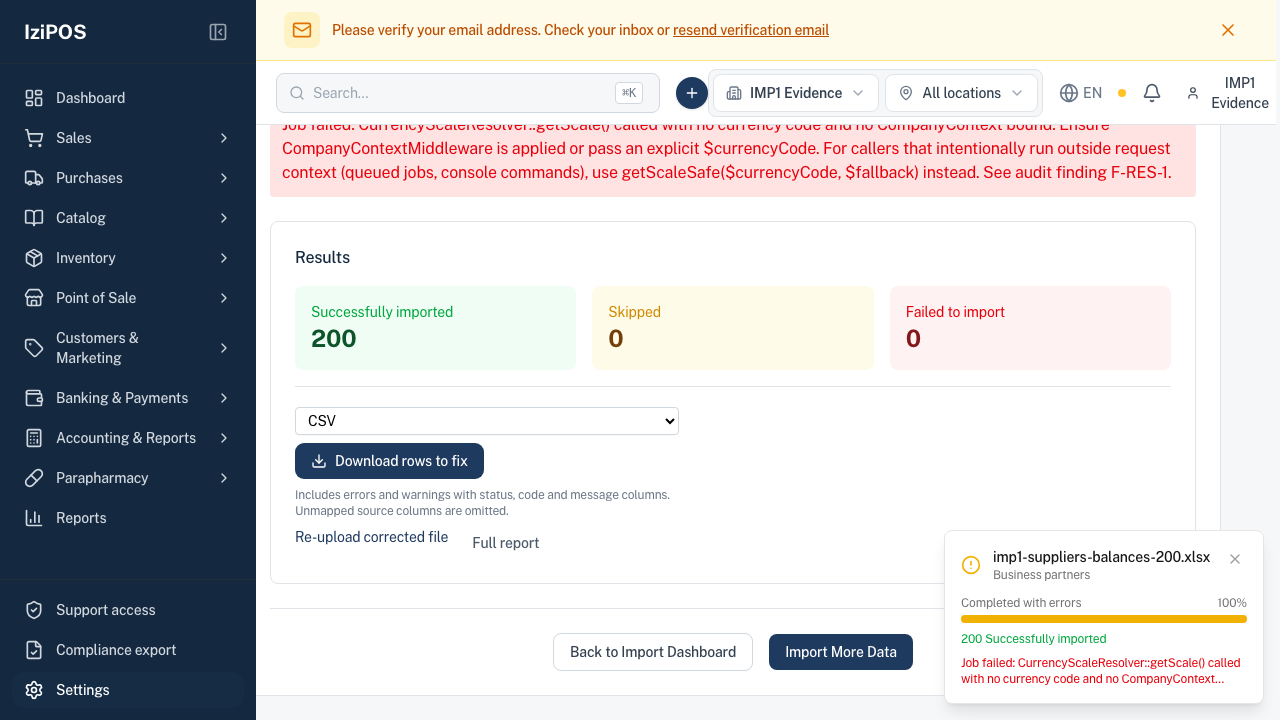
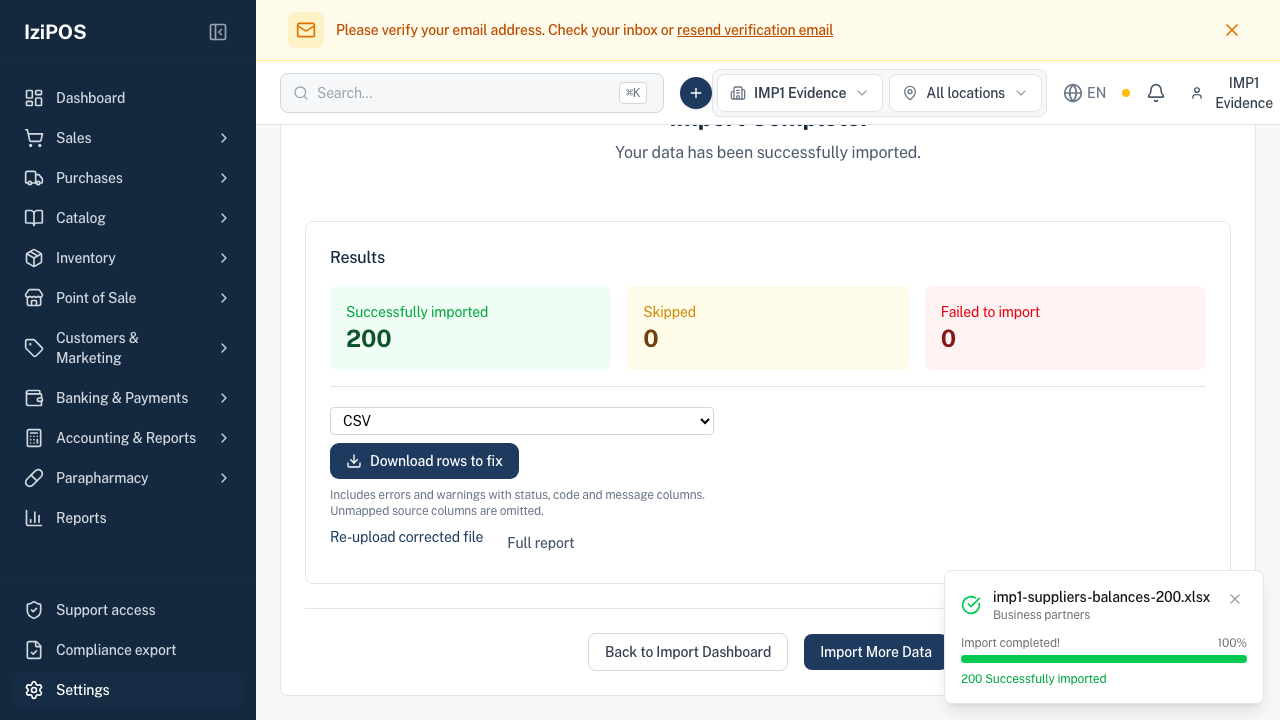
Phase 9.1.9: Record fix round 1 handback, realignment log and refreshed browser evidence
Appends the fix round 1 section to the lane handback: the cherry-pick of
dev 477c877a3, the five finding-group commits, per-finding detail, the
RED/GREEN tails for every class and file, the PG/SQLite/static/web results,
the generated-types statement (unchanged), and the browser gate.

The lane realignment log records the two API changes this round makes:
error_code published on the job payloads as the operator channel (with
error_message demoted to support-only and never rendered), and the
failed-rows artefact becoming ephemeral, so no client may assume a stable
server-side file behind that URL.

Browser evidence for the two re-run scenarios is refreshed from the live
run. The suppliers history row now reads "Completed / 200 imported / 0
skipped / 0 failed / 200 total" with no alert — M1's required outcome,
proven rather than asserted.

diff --git a/docs/handoff/HANDBACK-IMP-1-2026-09-10.md b/docs/handoff/HANDBACK-IMP-1-2026-09-10.md
@@ -54,3 +54,123 @@ The exact PharmaBio staging job was **not queried**: the available runbook did n
 2. For PostgreSQL tests, first check pg_stat_activity for `autoerp_test_z` is idle. Use local example credentials, host127.0.0.1/port5433, and set BOTH DB_DATABASE and DB_CENTRAL_DATABASE to autoerp_test_z. Run one test file at a time; RefreshDatabase resets this lane database. Stop workers before tests.
 3. For browser verification, start exactly one API with `php artisan serve --port=8012`, one database worker (`--queue=imports,default --tries=1 --timeout=300 --memory=512`), and Vite with `pnpm exec vite --config vite.local.config.ts --host localhost` on5176. Run `pnpm exec playwright test --config e2e/imports/pw.config.ts` from apps/web. It registers a fresh tenant and writes phase-b evidence. Stop all three processes afterwards.
 4. Re-run covering tests individually after changes. For preflight use PREFLIGHT_SCOPE=paths and the individual test-path variables; keep laptop restrictions. Keep browser traces local: they contain authentication material and are gitignored.
+
+---
+
+## Fix round 1
+
+Gate register: `docs/superpowers/reviews/2026-09-12-imp1-impl-gate-r1-imports.md` (ACCEPT-WITH-FIXES, 0 blockers / 5 majors / 8 minors). **M1–M5 and minors m1, m2, m4 are taken. m3 and m5–m8 are ticketed, not taken.**
+
+Base `4300d9ff3` (clean tree at start). No merge of `dev`, no rebase, no push; the shared CI/manifest files are untouched and stay for the integration owner to reconcile at merge.
+
+### Commits
+
+| SHA | Finding group | Subject |
+|---|---|---|
+| `fcc7a8c3f` | step 0 | **cherry-pick** of dev `477c877a341a8f228c01489c04243befc229d3e5` — "Phase 0.1.6: Fix queued supplier balance currency scaling" (original message and authorship kept; clean, no conflicts) |
+| `6ad71c46f` | **M1** | Phase 9.1.4: Re-point the suppliers browser scenario off the fixed currency defect |
+| `19bc55519` | **M2** | Phase 9.1.5: Show operators a coded import failure, never the raw server text |
+| `24974999f` | **M3** | Phase 9.1.6: Stop correction exports outliving the job that produced them |
+| `d93785949` | **M4** | Phase 9.1.7: Express the partial-completion rule exactly once |
+| `8d9537cbf` | **M5 + m1/m2/m4** | Phase 9.1.8: Register the §4.10 nouns and close gate r1 minors m1, m2 and m4 |
+| (this section) | — | handback + lane realignment log + refreshed browser evidence |
+
+### What each finding did
+
+**M1** — `apps/web/e2e/imports/imp1-history-export.spec.ts:66-75`: the suppliers scenario asserted the defect dev had just fixed (`Completed with errors` + a `role="alert"` containing the literal `CurrencyScaleResolver`). It now asserts the truthful post-fix outcome: `Completed`, **not** `Completed with errors`, `row.getByRole('alert')` count **0**, and 200 imported / 0 failed. The partial-status assertions stay on `imp1-partial.csv` / `imp1-partial-async.csv`, which fail on row data rather than on finalize. `tickets/2026-09-11-imp1-followups.md`'s supplier-finalization bullet is closed citing `477c877a3` (the staging-confirmation item stays open); `reviews/2026-09-10-imp1-evidence/supplier-finalization.json` is annotated historical by a sibling `supplier-finalization.SUPERSEDED.md` and is **not** deleted.
+
+**M2** — `ImportController::formatJob()` now publishes `error_code`; both operator surfaces render `apps/web/src/features/import/jobErrorMessage.ts` → translated `errors.<code>` (en/fr/ar already carry every generated code) with the existing generic `errors.unknown` for an absent or unrecognised one. `error_message` stays in the payload as the support channel and is never rendered. The wizard's execute-step panel (`ImportWizardPage.tsx:1367`) carried the same raw render as the completion panel (`:1459`) and was converted with it. Backend: `ProcessImportJob::failed()` and both upload failure paths already stamped a code; `ProcessProductImageImport`'s company-context refusal did not and now stamps `InternalError`, so a non-null `error_message` implies a non-null `error_code`. No new locale keys were needed. `packages/shared/types/generated.d.ts` is **unchanged** (`ImportJob` is a hand-rolled FE interface, not a generated DTO — pre-existing, ticket-worthy but out of scope).
+
+**M3** — `ImportRowExportService` now owns its artefact lifecycle (`deleteArtifacts()`, one `artifactPath()`/`FORMATS` pair). The download deletes the artefact as soon as the bytes are captured — the response already streamed from memory, so it is ephemeral by construction; `destroy()` and `imports:purge-expired` delete any orphan left by a request that died between `generate()` and the stream. The purge sweeps rows artefacts **before** the source gate, so a source that cannot be deleted does not strand them.
+
+**M4** — `App\Modules\Import\Domain\ImportJobOutcome` is the one authority: `isPartiallyCompleted()`, `effectiveStatus()` (terminal statuses only) and `effectiveStatusExpression()` (the same rule as SQL, terminal `IN` list generated from `ImportStatus::cases()`). All three former sites call it — `ImportJobClaimService::terminalUpdate()`, `ImportController::formatJob()`, `ImportController::index()`. Pure and stateless, so the static `failed()` hook path reaches it with no dependency to inject (rule 13 untouched). **The SQL filter was deliberately kept rather than switched to the stored column**: it also has to reclassify jobs written before `PartiallyCompleted` existed, which `ImportRowExportTest`'s historical-job case pins.
+
+**M5** — `docs/glossary.md` gains four rows (Rows to fix — with *correction file / correction export / failed-rows CSV / error-line export / lignes à corriger* declared as synonyms; Full report as the explicitly secondary concept; Partially completed; Re-import of). `docs/modules/imports.md` gains a §4.10 section: terminal outcomes and the one-authority rule, the coded-not-raw failure channel and what it demands of any new failure path, the `failed-rows.{format}` route with its selection/column/cell contract, the retention rule, the full report, and the re-import round trip.
+
+**m1** — `ProcessImportJobStatusTest` now clears `CompanyContext` before `runJob()` in the parties case (rule 20). It passes with the context cleared, which independently confirms the cherry-picked fix inside this class.
+**m2** — `ImportRowExportService::diagnostic()` uses `ImportErrorCode::InternalError->value` instead of the magic string and resolves `_message` through `__('import.warnings.<code>')` with the stored per-row detail as fallback. **No copy is seeded yet, deliberately**: today's details name the actual values ("provided 12.00 vs derived 11.90"), which generic per-code copy would throw away in the one file whose purpose is telling the operator what to change on that row. Ticketed with that constraint.
+**m4** — the sync finalize catch now `report()`s before swallowing and keeps a `CodedImportRowException`'s own code instead of flattening to `InternalError`; the sync/async asymmetry is stated in a comment where it lives.
+
+### Not done (ticketed in `docs/superpowers/tickets/2026-09-11-imp1-followups.md`)
+
+- Gate r1 minors **m3** (four missing test cases incl. the `opening_locked` arm), **m5** (auto-derived lowercase mapping 422), **m6** (six untranslated AR status labels), **m7** (`failed_rows_csv_url` unconditionally non-null), **m8** (normalized vs original cell spelling).
+- **A third raw-`error_message` surface found while fixing M2:** `apps/web/src/components/organisms/GlobalImportProgress/GlobalImportProgress.tsx:103-105` renders the WebSocket `progress.errorMessage` verbatim. Fixing it means carrying `error_code` on the `ImportCompleted` broadcast payload and through `importProgressStore` — a broadcast-contract change, so it needs its own lane. Same gap makes the wizard's realtime merge fall back to the generic sentence while a job is finishing.
+- **Job-level copy reuses the row-scoped `errors.*` catalogue** ("The row did not pass validation." on a job-level refusal). A wording decision, not a safety one — no raw text reaches a screen either way.
+- The **manifest/CI union** is untouched: recompute against current `dev` at merge, per the original handback.
+- `docs/handoff/REALIGNMENT-LOG-IMP-1-2026-09-10.md` records the two API changes (`error_code` on the job payloads; the failed-rows artefact becoming ephemeral). The **parent repo's** `docs/03-ERP-INTEGRATION/REALIGNMENT-LOG.md` was not touched — outside this worktree, and the integration owner holds it.
+
+### Red → green
+
+| Finding | RED | GREEN |
+|---|---|---|
+| M2 (web) | `ImportHistoryPage.errorMessage.test.tsx` — `Expected element to have text content: errors.internal_error / Received: Job failed: SQLSTATE[23505]: Unique violation: 7 ERROR: duplicate key value violates unique constraint "products_sku_company_unique" … /var/www/app/Modules/Import/Services/ImportService.php:318`; second case same for `errors.unknown`. **2 failed / 1 passed** | **3 passed** |
+| M2 (api) | `ImportRowExportTest::test_historical_job_…` — `Failed asserting that null is identical to 'internal_error'.` at `:219`. **1 failed (3 assertions)** | **1 passed (10 assertions)** |
+| M3 (download/discard) | `ImportRowExportTest` — `Failed asserting that two arrays are identical. -Array &0 [] +Array &0 [ 0 => 'imports/rows/01a09665-….csv', 1 => 'imports/rows/01a09665-….xlsx' ]` at `:261`. **2 failed (6 assertions)** | **2 passed (8 assertions)** |
+| M3 (purge) | `PurgeExpiredImportArtifactsTest` — `Found unexpected file or directory at path [...]` at `:281`. **1 failed (2 assertions)** | **1 passed (4 assertions)** |
+| M4 | `ImportJobOutcomeTest` — `Error: Class "App\Modules\Import\Domain\ImportJobOutcome" not found` at `:73` / undefined method. **9 failed (0 assertions)** | **9 passed (16 assertions)** |
+
+### Verification
+
+PostgreSQL **native 127.0.0.1:5432**, `DB_DATABASE=DB_CENTRAL_DATABASE=autoerp_test_y`, config `phpunit-pgsql.xml`, one class per invocation, serially. No full suite, no `--parallel`.
+
+```
+PG  ImportRowExportTest                 12 passed (60 assertions)   23.05s
+PG  ProcessImportJobStatusTest           7 passed (29 assertions)   10.55s
+PG  PartiesImportBalancesTest            5 passed (54 assertions)    7.91s
+PG  PurgeExpiredImportArtifactsTest      7 passed (41 assertions)    6.85s
+PG  Unit/Import/ImportJobOutcomeTest     9 passed (16 assertions)    0.05s
+
+SQLite  ImportRowExportTest             12 passed (60 assertions)   11.06s
+SQLite  ProcessImportJobStatusTest       7 passed (29 assertions)    9.68s
+```
+
+Static, over exactly the PHP files touched in this round (`ArApOpeningService`, `ProcessProductImageImport`, `ImportJobOutcome`, `PurgeExpiredImportArtifactsCommand`, `ImportController`, `ImportJobClaimService`, `ImportRowExportService`, `ImportService`, and the four test classes):
+
+```
+phpstan (level 8)   [OK] No errors
+pint --test         {"result":"pass"}
+```
+
+Generated types: `php artisan typescript:transform` → `Transformed 557 PHP types to TypeScript`; **`packages/shared/types/generated.d.ts` is unchanged** (`git status --short` empty after the run) — this round added no DTO field, only a key on a hand-assembled controller payload.
+
+Web, from `apps/web`:
+
+```
+pnpm typecheck   clean (no output)
+pnpm lint        EXIT=0 — ✖ 6407 problems (0 errors, 6407 warnings)   [warnings pre-existing]
+pnpm audit:keys  Gate C: 0 without an approved tenant scope; 0 acknowledged, 0 new, 0 stale
+vitest (by file) ImportHistoryPage.errorMessage 3 · ImportHistoryPage 1 · ImportHistoryPage.counts 1 ·
+                 ImportWizardPage.options 19 · ImportWizardPage.duplicates 8 ·
+                 ImportErrorLocales 3 · ImportWarningLocales 4  →  7 files, 39 passed
+```
+
+No `node (vitest` stragglers afterwards (`ps aux | grep -c '[n]ode (vitest'` → `0`).
+
+### Browser gate (M1)
+
+The lane's own harness, exactly as the Resume recipe describes: own config `apps/web/e2e/imports/pw.config.ts`, private ports API **:8012** / Vite **:5176**, one queue worker (`--queue=imports,default --tries=1 --timeout=300 --memory=512`), fresh tenant registered by `beforeAll`.
+
+Two dependencies had to be brought up first — they were **stopped**, not missing: the lane's PostgreSQL (`autoerp_postgres`, host **5433**, DB `autoerp_test_z`, stopped 07:23 today) and its Redis (`autoerp_redis`, host **6380**; `SESSION_DRIVER=redis`). Without Redis, registration returns `500 {"error":{"code":"INTERNAL_ERROR","message":"Connection refused [tcp://127.0.0.1:6380]"}}` — the first run failed there, before any assertion. Both containers were **stopped again afterwards**, restoring the pre-run state.
+
+Scope: the two scenarios the fix round requires, via `--grep 'imp1-partial\.csv|imp1-suppliers-balances-200\.xlsx'` — the full six-scenario run was not re-executed.
+
+```
+Running 2 tests using 1 worker
+  ✓  1 … IMP1 history and rows-to-fix: imp1-partial.csv (8.8s)
+  ✓  2 … IMP1 history and rows-to-fix: imp1-suppliers-balances-200.xlsx (17.4s)
+  2 passed (28.9s)
+```
+
+The suppliers history row, captured live (`…/phase-b/imp1-suppliers-balances-200.xlsx-history.txt`):
+
+```
+Business partners  imp1-suppliers-balances-200.xlsx
+Completed
+200 imported / 0 skipped / 0 failed / 200 total
+```
+
+— `Completed`, not `Completed with errors`, and no error alert: M1's required outcome, proven on the cherry-picked tree rather than asserted. The partial row still reads `Completed with errors` with `9 imported / 1 skipped / 2 failed / 12 total`.
+
+Refreshed evidence (committed): `docs/superpowers/reviews/2026-09-10-imp1-evidence/phase-b/` — for each of the two scenarios, `-completion.png`, `-completion-actions.png`, `-history-loading.png`, `-history.png`, `-history.txt`, `-full-report.xlsx`, plus `imp1-partial.csv-rows.xlsx`. `imp1-partial.csv-rows.csv` is **byte-identical** to the previous run and therefore shows no diff — an incidental re-confirmation of the export's stable bytes.
+
+Processes stopped afterwards; `lsof -nP -iTCP:8012 -sTCP:LISTEN` and `-iTCP:5176` both return nothing, and 5433/6380 were released with the containers.

diff --git a/docs/handoff/REALIGNMENT-LOG-IMP-1-2026-09-10.md b/docs/handoff/REALIGNMENT-LOG-IMP-1-2026-09-10.md
@@ -1,3 +1,5 @@
 # IMP-1 realignment log
 
 2026-09-11 — §4.10 / G-1: correction exports now select failed and warning rows, preserve source-header spelling/order, and append `_status`, `_code`, `_message` in CSV and XLSX. `POST /imports` accepts `reimport_of`; same-tenant/company and entitlement checks precede mapping reuse. `column_mapping` is validated injectively; source-header order is retained in typed `options.source_headers` because PostgreSQL JSONB objects do not preserve key order. A `partially_completed` status distinguishes row/finalization errors after successful writes, including an effective display status for older failed jobs. Full report remains a separate three-sheet workbook. G-8 convention integration and the underlying supplier currency-context bug remain ticketed.
+
+2026-09-12 — fix round 1 (gate r1). **`GET /api/v1/imports` and `GET /api/v1/imports/{id}` now return `error_code`** (the `ImportErrorCode` value, or `null`) alongside `error_message`. `error_code` is the operator channel and is what any client must render, translated; `error_message` is the support/diagnosis channel and carries raw exception text (class names, file paths, full SQLSTATE strings with key values) — it must never be shown. Every terminal failure stamps a code, so a non-null `error_message` implies a non-null `error_code`. **`GET /api/v1/imports/{id}/failed-rows.{csv,xlsx}` is now ephemeral**: the generated artefact is deleted as the bytes are streamed, and any orphan is removed by `DELETE /api/v1/imports/{id}` and by `imports:purge-expired` — a client must not assume a stable server-side file behind that URL. No request shape changed; both are additive/behavioural.
